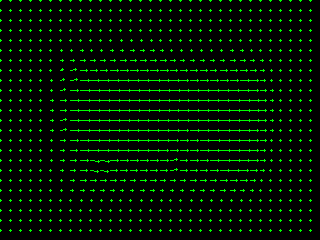
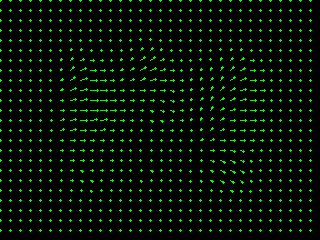
ps4. 5a, b. Code complete. Ghosting on b not resolved.

diff --git a/code/PS4/ps04/experiment.py b/code/PS4/ps04/experiment.py
@@ -13,13 +13,11 @@ output_dir = "./"
 
 # Utility code
 def quiver(u, v, scale, stride, color=(0, 255, 0)):
-
     img_out = np.zeros((v.shape[0], u.shape[1], 3), dtype=np.uint8)
 
     for y in range(0, v.shape[0], stride):
 
         for x in range(0, u.shape[1], stride):
-
             cv2.line(img_out, (x, y), (x + int(u[y, x] * scale),
                                        y + int(v[y, x] * scale)), color, 1)
             cv2.circle(img_out, (x + int(u[y, x] * scale),
@@ -67,8 +65,8 @@ def scale_u_and_v(u, v, level, pyr):
             v (numpy.array): scaled V array of shape equal to
                              pyr[0].shape
     """
-    print(f'**** Starting Shape:{u.shape}')
-    print(f'**** Final Goal Shape:{pyr[0].shape}')
+    # print(f'**** Starting Shape:{u.shape}')
+    # print(f'**** Final Goal Shape:{pyr[0].shape}')
     for i in range(level, 0, -1):
         tmp_shape = u.shape
         u_tmp = ps4.expand_image(u)
@@ -77,18 +75,18 @@ def scale_u_and_v(u, v, level, pyr):
         u_tmp *= 2
         v_tmp *= 2
 
-        next_level = i-1
+        next_level = i - 1
         next_image = pyr[next_level]
         h, w = next_image.shape
         u = u_tmp[:h, :w]
         v = v_tmp[:h, :w]
-        print(f'Level:{i}; Before {tmp_shape};\tGoal h:{h},w:{w},\tAfter u:{u.shape}, v:{v.shape}')
-    print(f'**** Final Shape:{u.shape}')
+    #     print(f'Level:{i}; Before {tmp_shape};\tGoal h:{h},w:{w},\tAfter u:{u.shape}, v:{v.shape}')
+    # print(f'**** Final Shape:{u.shape}')
 
     return u, v
 
-def part_1a():
 
+def part_1a():
     shift_0 = cv2.imread(os.path.join(input_dir, 'TestSeq',
                                       'Shift0.png'), 0) / 255.
     shift_r2 = cv2.imread(os.path.join(input_dir, 'TestSeq',
@@ -156,7 +154,6 @@ def part_1b():
     images = [shift_r10, shift_r20, shift_r40]
     file_names = ['ps4-1-b-1.png', 'ps4-1-b-2.png', 'ps4-1-b-3.png']
 
-
     k_size = 49  # TODO: Select a kernel size
     k_type = "gaussian"  # TODO: Select a kernel type
     sigma = 30  # TODO: Select a sigma value if you are using a gaussian kernel
@@ -169,7 +166,6 @@ def part_1b():
 
 
 def part_2():
-
     yos_img_01 = cv2.imread(os.path.join(input_dir, 'DataSeq1',
                                          'yos_img_01.jpg'), 0) / 255.
 
@@ -266,7 +262,7 @@ def part_4a():
     u10, v10 = ps4.hierarchical_lk(shift_0, shift_r10, levels, k_size, k_type,
                                    sigma, interpolation, border_mode)
 
-    u_v = quiver(u10, v10, scale=1, stride=10)
+    u_v = quiver(u10, v10, scale=1.5, stride=10)
     cv2.imwrite(os.path.join(output_dir, "ps4-4-a-1.png"), u_v)
 
     # You may want to try different parameters for the remaining function
@@ -278,7 +274,7 @@ def part_4a():
     u20, v20 = ps4.hierarchical_lk(shift_0, shift_r20, levels, k_size, k_type,
                                    sigma, interpolation, border_mode)
 
-    u_v = quiver(u20, v20, scale=1, stride=10)
+    u_v = quiver(u20, v20, scale=1.5, stride=10)
     cv2.imwrite(os.path.join(output_dir, "ps4-4-a-2.png"), u_v)
 
     levels = 3
@@ -287,7 +283,7 @@ def part_4a():
     sigma = 28
     u40, v40 = ps4.hierarchical_lk(shift_0, shift_r40, levels, k_size, k_type,
                                    sigma, interpolation, border_mode)
-    u_v = quiver(u40, v40, scale=1, stride=10)
+    u_v = quiver(u40, v40, scale=1.5, stride=10)
     cv2.imwrite(os.path.join(output_dir, "ps4-4-a-3.png"), u_v)
 
 
@@ -327,7 +323,6 @@ def part_5a():
 
     Place all your work in this file and this section.
     """
-
     shift_0 = cv2.imread(os.path.join(input_dir, 'TestSeq',
                                       'Shift0.png'), 0) / 255.
     shift_r10 = cv2.imread(os.path.join(input_dir, 'TestSeq',
@@ -336,25 +331,16 @@ def part_5a():
     levels, k_size, k_type, sigma = 2, 41, 'gaussian', 21
     interpolation = cv2.INTER_CUBIC
     border_mode = cv2.BORDER_REFLECT101
-
     u, v = ps4.hierarchical_lk(shift_0, shift_r10, levels, k_size,
                                k_type, sigma, interpolation, border_mode,
                                gauss_k_size=k_size, gauss_sigma_x=22,
                                gauss_sigma_y=1)
-    # u, v = ps4.optic_flow_lk(shift_0, shift_r10, k_size, k_type, sigma)
-
-    u_v = quiver(u, v, scale=1, stride=10)
-    # cv2.imshow(f'part 5 quiver', u_v)
 
     frames = [shift_0]
 
     for t in [0.2, 0.4, 0.6, 0.8]:
-        # user warp
-        # giving warp the full U, V from lk will give you back shift_0.
-        # We want to give it (1-t)*U and (1-t)*V velocities.
-        # map_x and map_y are grids. Each cell in each of these grids contains the
-        # coordinates of where that cells values should come from.
-        frame_tmp = ps4.warp(shift_r10, (1-t)*u, (1-t)*v, interpolation, border_mode)
+        frame_tmp = ps4.warp(shift_r10, (1 - t) * u, (1 - t) * v, interpolation,
+                             border_mode)
 
         frames.append(frame_tmp)
 
@@ -364,19 +350,18 @@ def part_5a():
     #     cv2.imwrite(f'part5_new_img_{i}.png', ps4.normalize_and_scale(frame))
 
     h, w = shift_0.shape
-    output_img = np.zeros((2*h, 3*w))
+    output_img = np.zeros((2 * h, 3 * w))
 
     counter = 0
 
     for j in range(2):
         for i in range(3):
-            row = j*h
-            col = i*w
-            output_img[row:row+h, col:col+w] = frames[counter]
+            row = j * h
+            col = i * w
+            output_img[row:row + h, col:col + w] = frames[counter]
             counter += 1
-
-    cv2.imwrite('ps4-5-a-1.png',
-                ps4.normalize_and_scale(output_img))
+    # import pdb; [pdb.set_trace()]
+    cv2.imwrite('ps4-5-a-1.png', ps4.normalize_and_scale(output_img))
 
 
 def part_5b():
@@ -386,9 +371,8 @@ def part_5b():
 
     Place all your work in this file and this section.
     """
-
     mc_01 = cv2.imread(os.path.join(input_dir, 'MiniCooper',
-                                      'mc01.png'), 0) / 255.
+                                    'mc01.png'), 0) / 255.
     mc_02 = cv2.imread(os.path.join(input_dir, 'MiniCooper',
                                     'mc02.png'), 0) / 255.
     mc_03 = cv2.imread(os.path.join(input_dir, 'MiniCooper',
@@ -400,48 +384,51 @@ def part_5b():
     interpolation = cv2.INTER_CUBIC
     border_mode = cv2.BORDER_REFLECT101
 
-    for k in range(1, 2):
+    def _frame_interpolation(img_a, img_b, u, v, t_list):
+        I_0 = img_a
+        I_1 = img_b
+        I_1_warped = ps4.warp(I_1, u, v, interpolation, border_mode)
 
-        u, v = ps4.hierarchical_lk(images[k], images[k+1], levels, k_size,
-                                   k_type, sigma, interpolation, border_mode,
-                                   gauss_k_size=k_size, gauss_sigma_x=22, gauss_sigma_y=1)
-        # u, v = ps4.optic_flow_lk(shift_0, shift_r10, k_size, k_type, sigma)
+        frames = [I_0]
 
-        # u_v = quiver(u, v, scale=1, stride=10)
-        # cv2.imshow(f'part 5 quiver', u_v)
+        for t in t_list:
+            I_prime = (1 - t) * I_0 + t * I_1_warped
+            I_t = ps4.warp(I_prime, -t * u, -t * v, interpolation, border_mode)
 
-        frames = [images[k]]
+            frames.append(I_t)
 
-        for t in [0.2, 0.4, 0.6, 0.8]:
-            # user warp
-            # giving warp the full U, V from lk will give you back shift_0.
-            # We want to give it (1-t)*U and (1-t)*V velocities.
-            # map_x and map_y are grids. Each cell in each of these grids contains the
-            # coordinates of where that cells values should come from.
-            frame_tmp = ps4.warp(images[k+1], (1-t)*u, (1-t)*v, interpolation, border_mode)
+        frames.append(I_1)
 
-            frames.append(frame_tmp)
+        # for l, frame in enumerate(frames):
+        #     cv2.imwrite(f'part5b_{l}.png', ps4.normalize_and_scale(frame))
 
-        frames.append(images[k+1])
-
-        for l, frame in enumerate(frames):
-            cv2.imwrite(f'part5_new_img_{k}_{l}.png', ps4.normalize_and_scale(frame))
-
-        h, w = images[k].shape
-        output_img = np.zeros((2*h, 3*w))
+        h, w = img_a.shape
+        output_img = np.zeros((2 * h, 3 * w))
 
         counter = 0
 
         for j in range(2):
             for i in range(3):
-                row = j*h
-                col = i*w
-                output_img[row:row+h, col:col+w] = frames[counter]
+                row = j * h
+                col = i * w
+                output_img[row:row + h, col:col + w] = frames[counter]
                 counter += 1
 
-        print("K:{}".format(k))
-        cv2.imwrite('ps4-5-b-{}.png'.format(k+1),
-                    ps4.normalize_and_scale(output_img))
+        return output_img
+
+    for i in range(len(images) - 1):
+        u, v = ps4.hierarchical_lk(images[i], images[i + 1], levels, k_size,
+                                   k_type, sigma, interpolation, border_mode,
+                                   gauss_k_size=k_size, gauss_sigma_x=22, gauss_sigma_y=1)
+
+        # u_v = quiver(u, v, scale=0.9, stride=10)
+        # cv2.imshow(f'part 5 quiver {i}', u_v)
+        # cv2.waitKey(0)
+
+        output_img = _frame_interpolation(images[i], images[i + 1], u, v,
+                                          [0.2, 0.4, 0.6, 0.8])
+
+        cv2.imwrite(f'ps4-5-b-{i+1}.png', ps4.normalize_and_scale(output_img))
 
 
 def part_6():
@@ -456,13 +443,13 @@ def part_6():
 
 
 if __name__ == '__main__':
-    # part_1a()
-    # part_1b()
-    # part_2()
-    # part_3a_1()
-    # part_3a_2()
-    # part_4a()
-    # part_4b()
-    # part_5a()
+    part_1a()
+    part_1b()
+    part_2()
+    part_3a_1()
+    part_3a_2()
+    part_4a()
+    part_4b()
+    part_5a()
     part_5b()
     # part_6()
